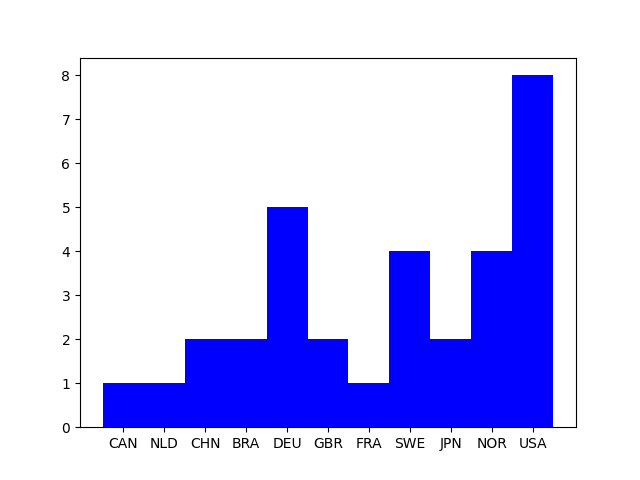
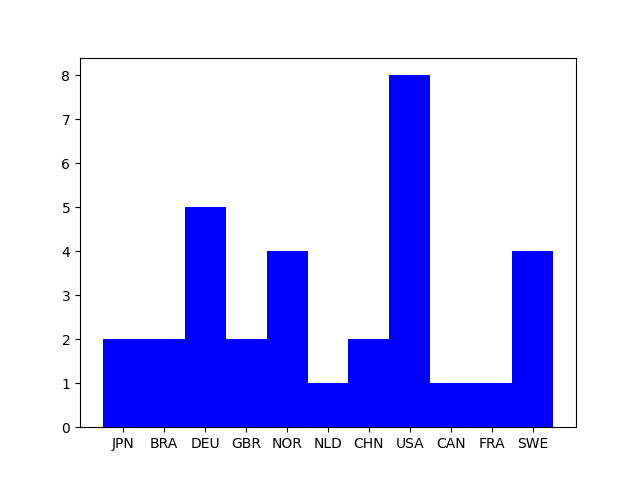
changement des graphs

diff --git a/main.py b/main.py
@@ -248,7 +248,7 @@ def main():
     plt.savefig('graph1.png')#on enregistre dans le fichier graph1.png
 
     plt.clf()#on supprime ce qui était dans la figure pour éviter que les deux graphiques ne se superposent
-
+    f, graph_meilleur_masc = plt.subplots(figsize=(18,5))
     graph_meilleur_masc=plt.bar(Meilleur_masc_x, Meilleur_masc_y,1.0,color='r')#CM masculin
     plt.savefig('graph2.png')#on enregistre dans le fichier graph2.png
 
